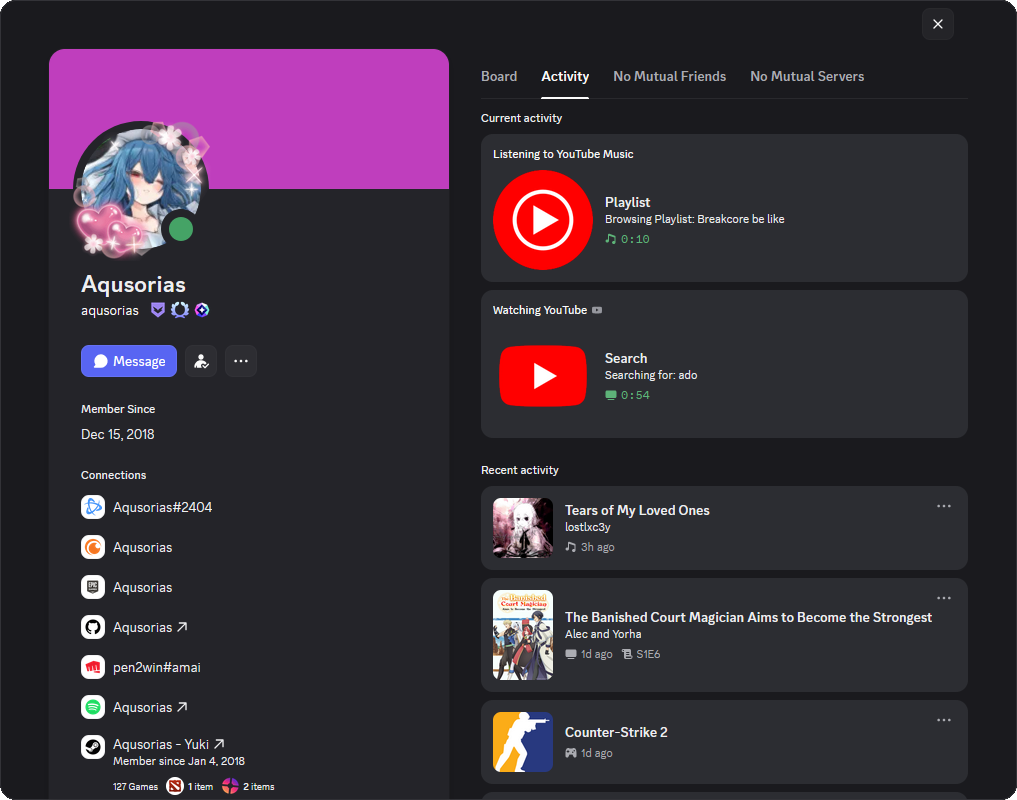
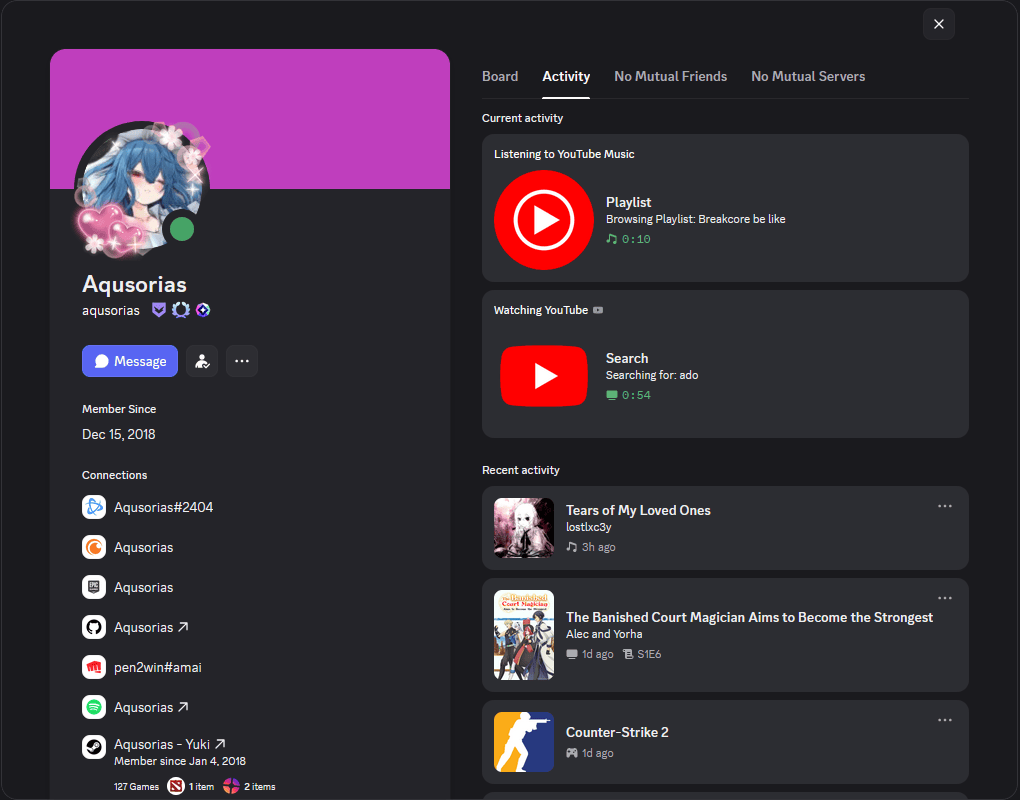
added chrome support

diff --git a/Extension/background.js b/Extension/background.js
@@ -1,3 +1,5 @@
+const browserAPI = typeof browser !== "undefined" ? browser : chrome;
+
 const NATIVE_HOST = "com.enhanced.rpc.bridge";
 let nativePort = null;
 let defaultSettings = null;
@@ -29,7 +31,7 @@ const dismissedUpdateModalByTab = new Map(); // tabId -> Set(kind)
 // When enabled, suppress update_available popups (native missing/invalid still show).
 let muteUpdateNotifications = false;
 try {
-    browser.storage.local.get('muteUpdateNotifications').then((st) => {
+    browserAPI.storage.local.get('muteUpdateNotifications').then((st) => {
         muteUpdateNotifications = st && st.muteUpdateNotifications === true;
     }).catch(() => { });
 } catch { }
@@ -200,7 +202,7 @@ function clearPendingUpdateModal() {
 
 async function isRpcEnabledForUpdateModal() {
     try {
-        const stored = await browser.storage.local.get('rpcEnabled');
+        const stored = await browserAPI.storage.local.get('rpcEnabled');
         return stored.rpcEnabled !== false;
     } catch {
         // Fail open to avoid accidentally breaking update checks on storage errors.
@@ -233,7 +235,7 @@ async function ensureNativeMissingModal() {
     updateModalRetryByTab.forEach(st => { if (st && st.timer) clearTimeout(st.timer); });
     updateModalRetryByTab.clear();
 
-    const tabs = await browser.tabs.query({ active: true, currentWindow: true });
+    const tabs = await browserAPI.tabs.query({ active: true, currentWindow: true });
     if (tabs && tabs.length > 0) {
         const tab = tabs[0];
         scheduleTryShowUpdateModal(tab.id, tab.url);
@@ -269,7 +271,7 @@ async function ensureNativeInvalidModal() {
     updateModalRetryByTab.forEach(st => { if (st && st.timer) clearTimeout(st.timer); });
     updateModalRetryByTab.clear();
 
-    const tabs = await browser.tabs.query({ active: true, currentWindow: true });
+    const tabs = await browserAPI.tabs.query({ active: true, currentWindow: true });
     if (tabs && tabs.length > 0) {
         const tab = tabs[0];
         scheduleTryShowUpdateModal(tab.id, tab.url);
@@ -280,7 +282,7 @@ async function ensureNativeInvalidModal() {
 
 async function loadDefaults(forceReload = false) {
     if (!defaultSettings || forceReload) {
-        const baseUrl = browser.runtime.getURL('default_settings.json');
+        const baseUrl = browserAPI.runtime.getURL('default_settings.json');
         const response = await fetch(`${baseUrl}?_=${Date.now()}`, {
             method: 'GET',
             cache: 'no-store'
@@ -293,7 +295,7 @@ async function loadDefaults(forceReload = false) {
 function getNativePort() {
     if (!nativePort) {
         try {
-            nativePort = browser.runtime.connectNative(NATIVE_HOST);
+            nativePort = browserAPI.runtime.connectNative(NATIVE_HOST);
         } catch {
             nativePort = null;
             nativeHostReachable = false;
@@ -324,7 +326,7 @@ function getNativePort() {
                 }
             } catch { }
 
-            browser.runtime.sendMessage({
+            browserAPI.runtime.sendMessage({
                 action: "PYTHON_RESPONSE",
                 payload: response
             }).catch(() => {});
@@ -360,7 +362,7 @@ function getNativePort() {
 }
 
 async function getInstalledVersionsSnapshot() {
-    const extensionVersion = browser.runtime.getManifest().version || '';
+    const extensionVersion = browserAPI.runtime.getManifest().version || '';
     let nativeAppVersion = '';
 
     try {
@@ -465,7 +467,7 @@ async function restoreSelectedTabsAfterReset(selectedTabs) {
 
         let tab;
         try {
-            tab = await browser.tabs.get(Number(tabId));
+            tab = await browserAPI.tabs.get(Number(tabId));
         } catch {
             continue;
         }
@@ -490,7 +492,7 @@ async function performFullRpcReset() {
 
     rpcResetInFlight = (async () => {
         const defaults = await loadDefaults(true);
-        const settings = await browser.storage.local.get(defaults);
+        const settings = await browserAPI.storage.local.get(defaults);
 
         let selectedBeforeReset = {};
         try {
@@ -743,7 +745,7 @@ async function sendRequestSyncWithRetries(tabId, expectedUrl, maxAttempts = 18, 
     for (let attempt = 0; attempt < maxAttempts; attempt += 1) {
         // Ensure the tab still exists and hasn't navigated away
         try {
-            const tab = await browser.tabs.get(tabId);
+            const tab = await browserAPI.tabs.get(tabId);
             const liveUrl = tab && tab.url;
             if (!isDisplayableUrl(liveUrl)) return false;
             if (expectedUrl && liveUrl !== expectedUrl) return false;
@@ -752,7 +754,7 @@ async function sendRequestSyncWithRetries(tabId, expectedUrl, maxAttempts = 18, 
         }
 
         try {
-            await browser.tabs.sendMessage(tabId, { action: 'REQUEST_SYNC', ...extraFields });
+            await browserAPI.tabs.sendMessage(tabId, { action: 'REQUEST_SYNC', ...extraFields });
             return true;
         } catch { }
 
@@ -796,7 +798,7 @@ async function tryShowPendingUpdateModal(tabId, url) {
     }
 
     try {
-        await browser.tabs.sendMessage(tabId, {
+        await browserAPI.tabs.sendMessage(tabId, {
             action: "show_update_modal",
             data: pendingUpdateModal
         });
@@ -846,7 +848,7 @@ function scheduleTryShowUpdateModal(tabId, url) {
         }
 
         try {
-            const tab = await browser.tabs.get(tabId);
+            const tab = await browserAPI.tabs.get(tabId);
             const liveUrl = tab && tab.url;
             if (!isDisplayableUrl(liveUrl) || liveUrl !== url) {
                 updateModalRetryByTab.delete(tabId);
@@ -962,7 +964,7 @@ async function checkForNativeAppUpdate() {
     updateModalRetryByTab.forEach(st => { if (st && st.timer) clearTimeout(st.timer); });
     updateModalRetryByTab.clear();
 
-    const tabs = await browser.tabs.query({ active: true, currentWindow: true });
+    const tabs = await browserAPI.tabs.query({ active: true, currentWindow: true });
     if (tabs && tabs.length > 0) {
         const tab = tabs[0];
         scheduleTryShowUpdateModal(tab.id, tab.url);
@@ -970,19 +972,19 @@ async function checkForNativeAppUpdate() {
 }
 
 async function syncActiveTabs() {
-    const tabs = await browser.tabs.query({
+    const tabs = await browserAPI.tabs.query({
         url: ["*://*.youtube.com/*", "*://*.music.youtube.com/*"]
     });
 
     if (tabs.length > 0) {
         for (const tab of tabs) {
-            browser.tabs.sendMessage(tab.id, { action: "REQUEST_SYNC" }).catch(() => {
+            browserAPI.tabs.sendMessage(tab.id, { action: "REQUEST_SYNC" }).catch(() => {
             });
         }
     }
 }
 
-browser.runtime.onMessage.addListener(async (msg, sender) => {
+browserAPI.runtime.onMessage.addListener(async (msg, sender) => {
     if (msg.action === 'ENSURE_YTMUSIC_PLAYING_TAB_SELECTED') {
         const senderTab = sender && sender.tab;
         if (!senderTab || senderTab.id == null) return { ok: false, reason: 'no_sender_tab' };
@@ -1023,7 +1025,7 @@ browser.runtime.onMessage.addListener(async (msg, sender) => {
         const port = getNativePort();
         if (!port) return { ok: false, reason: 'native_missing' };
 
-        const tabs = await browser.tabs.query({ active: true, currentWindow: true });
+        const tabs = await browserAPI.tabs.query({ active: true, currentWindow: true });
         if (!tabs || tabs.length === 0) return { ok: false, reason: 'no_active_tab' };
 
         const tab = tabs[0];
@@ -1104,7 +1106,7 @@ browser.runtime.onMessage.addListener(async (msg, sender) => {
     }
     if (msg.action === "TRIGGER_CUSTOM_RPC") {
         const defaults = await loadDefaults();
-        const settings = await browser.storage.local.get(defaults);
+        const settings = await browserAPI.storage.local.get(defaults);
         const port = getNativePort();
         if (!port) return;
         
@@ -1158,7 +1160,7 @@ browser.runtime.onMessage.addListener(async (msg, sender) => {
         if (nativeHostReachable === false) return;
 
         const defaults = await loadDefaults();
-        const settings = await browser.storage.local.get(defaults);
+        const settings = await browserAPI.storage.local.get(defaults);
         if (!settings.rpcEnabled) return;
 
         const senderTab = sender && sender.tab;
@@ -1175,7 +1177,7 @@ browser.runtime.onMessage.addListener(async (msg, sender) => {
 
             if (selectedNow !== null && String(selectedNow) !== String(senderTab.id)) return;
 
-            await browser.tabs.sendMessage(senderTab.id, {
+            await browserAPI.tabs.sendMessage(senderTab.id, {
                 action: "show_broadcast",
                 data: msg.data
             });
@@ -1187,14 +1189,14 @@ browser.runtime.onMessage.addListener(async (msg, sender) => {
     }
 
     const defaults = await loadDefaults();
-    const settings = await browser.storage.local.get(defaults);
+    const settings = await browserAPI.storage.local.get(defaults);
 
     if (!settings.rpcEnabled) return;
 
     // Check if this is the active tab
     let isActiveTab = false;
     if (sender.tab) {
-        const activeTabs = await browser.tabs.query({ active: true, currentWindow: true });
+        const activeTabs = await browserAPI.tabs.query({ active: true, currentWindow: true });
         isActiveTab = activeTabs.length > 0 && activeTabs[0].id === sender.tab.id;
     }
 
@@ -1282,7 +1284,7 @@ browser.runtime.onMessage.addListener(async (msg, sender) => {
     port.postMessage(data);
 });
 
-browser.tabs.onUpdated.addListener((tabId, changeInfo, tab) => {
+browserAPI.tabs.onUpdated.addListener((tabId, changeInfo, tab) => {
     if (changeInfo.url) {
         const url = changeInfo.url;
         const isYouTube = url.includes("youtube.com") || url.includes("music.youtube.com");
@@ -1313,7 +1315,7 @@ browser.tabs.onUpdated.addListener((tabId, changeInfo, tab) => {
     }
 });
 
-browser.tabs.onRemoved.addListener((tabId) => {
+browserAPI.tabs.onRemoved.addListener((tabId) => {
     if (updateModalTargetTabId === tabId) {
         updateModalTargetTabId = null;
     }
@@ -1341,13 +1343,13 @@ browser.tabs.onRemoved.addListener((tabId) => {
     })();
 });
 
-browser.tabs.onActivated.addListener(async (activeInfo) => {
-    const tab = await browser.tabs.get(activeInfo.tabId);
+browserAPI.tabs.onActivated.addListener(async (activeInfo) => {
+    const tab = await browserAPI.tabs.get(activeInfo.tabId);
     const url = tab.url || "";
     const isYouTube = url.includes("youtube.com") || url.includes("music.youtube.com");
     
     if (isYouTube) {
-        browser.tabs.sendMessage(activeInfo.tabId, { action: "REQUEST_SYNC" }).catch(() => { });
+        browserAPI.tabs.sendMessage(activeInfo.tabId, { action: "REQUEST_SYNC" }).catch(() => { });
     }
 });
 
@@ -1436,9 +1438,9 @@ function normalizeRpcYoutubeMusicConfig(config, defaultsConfig = {}) {
 }
 
 async function initializeStorage() {
-    const response = await fetch(browser.runtime.getURL('default_settings.json'));
+    const response = await fetch(browserAPI.runtime.getURL('default_settings.json'));
     const defaults = await response.json();
-    const current = await browser.storage.local.get();
+    const current = await browserAPI.storage.local.get();
 
     const merged = deepMerge(defaults, current);
 
@@ -1449,7 +1451,7 @@ async function initializeStorage() {
     if (current.rpcEnabled !== undefined) merged.rpcEnabled = current.rpcEnabled;
     if (current.informationPopups !== undefined) merged.informationPopups = current.informationPopups;
 
-    await browser.storage.local.set(merged);
+    await browserAPI.storage.local.set(merged);
 
     if (merged.rpcEnabled) {
         syncActiveTabs();
@@ -1468,13 +1470,13 @@ async function initializeStorage() {
     }
 }
 
-browser.runtime.onInstalled.addListener(async (details) => {
+browserAPI.runtime.onInstalled.addListener(async (details) => {
     if (details.reason === "install") {
         // console.log("First time install: Setting defaults.");
         await initializeStorage();
         try {
-            await browser.tabs.create({
-                url: browser.runtime.getURL('pages/info.html'),
+            await browserAPI.tabs.create({
+                url: browserAPI.runtime.getURL('pages/info.html'),
                 active: true
             });
         } catch { }
@@ -1484,11 +1486,11 @@ browser.runtime.onInstalled.addListener(async (details) => {
     }
 });
 
-browser.runtime.onStartup.addListener(() => {
+browserAPI.runtime.onStartup.addListener(() => {
     checkForNativeAppUpdate();
 });
 
-browser.storage.onChanged.addListener((changes, areaName) => {
+browserAPI.storage.onChanged.addListener((changes, areaName) => {
     if (areaName !== 'local' || !changes) return;
 
     if (changes.muteUpdateNotifications) {
@@ -1513,20 +1515,20 @@ setTimeout(() => {
     checkForNativeAppUpdate();
 }, 2000);
 
-browser.runtime.onSuspend.addListener(() => {
+browserAPI.runtime.onSuspend.addListener(() => {
     const port = getNativePort();
     if (port) port.postMessage({ action: "CLEAR_RPC" });
 });
 
-browser.tabs.onActivated.addListener(async (activeInfo) => {
+browserAPI.tabs.onActivated.addListener(async (activeInfo) => {
     if (!pendingUpdateModal) return;
     try {
-        const tab = await browser.tabs.get(activeInfo.tabId);
+        const tab = await browserAPI.tabs.get(activeInfo.tabId);
         scheduleTryShowUpdateModal(activeInfo.tabId, tab && tab.url);
     } catch { }
 });
 
-browser.tabs.onUpdated.addListener((tabId, changeInfo, tab) => {
+browserAPI.tabs.onUpdated.addListener((tabId, changeInfo, tab) => {
     if (!pendingUpdateModal) return;
     if (changeInfo.url) {
         scheduleTryShowUpdateModal(tabId, changeInfo.url);

diff --git a/Extension/content.js b/Extension/content.js
@@ -1,3 +1,5 @@
+const browserAPI = typeof browser !== "undefined" ? browser : chrome;
+
 let activeToast = null;
 let toastTimer = null;
 let activeBroadcast = null;
@@ -5,7 +7,7 @@ let broadcastTimer = null;
 let oldData = null;
 let activeUpdateModal = null;
 
-browser.runtime.onMessage.addListener((request) => {
+browserAPI.runtime.onMessage.addListener((request) => {
     if (request.action === "show_toast") {
         showToast(request.data);
     }
@@ -236,7 +238,7 @@ function createUpdateModal(data) {
             if (host.parentNode) host.remove();
             if (activeUpdateModal === host) activeUpdateModal = null;
             try {
-                browser.runtime.sendMessage({ action: 'UPDATE_MODAL_DISMISSED', kind: host.dataset.kind || '' });
+                browserAPI.runtime.sendMessage({ action: 'UPDATE_MODAL_DISMISSED', kind: host.dataset.kind || '' });
             } catch { }
         });
     }